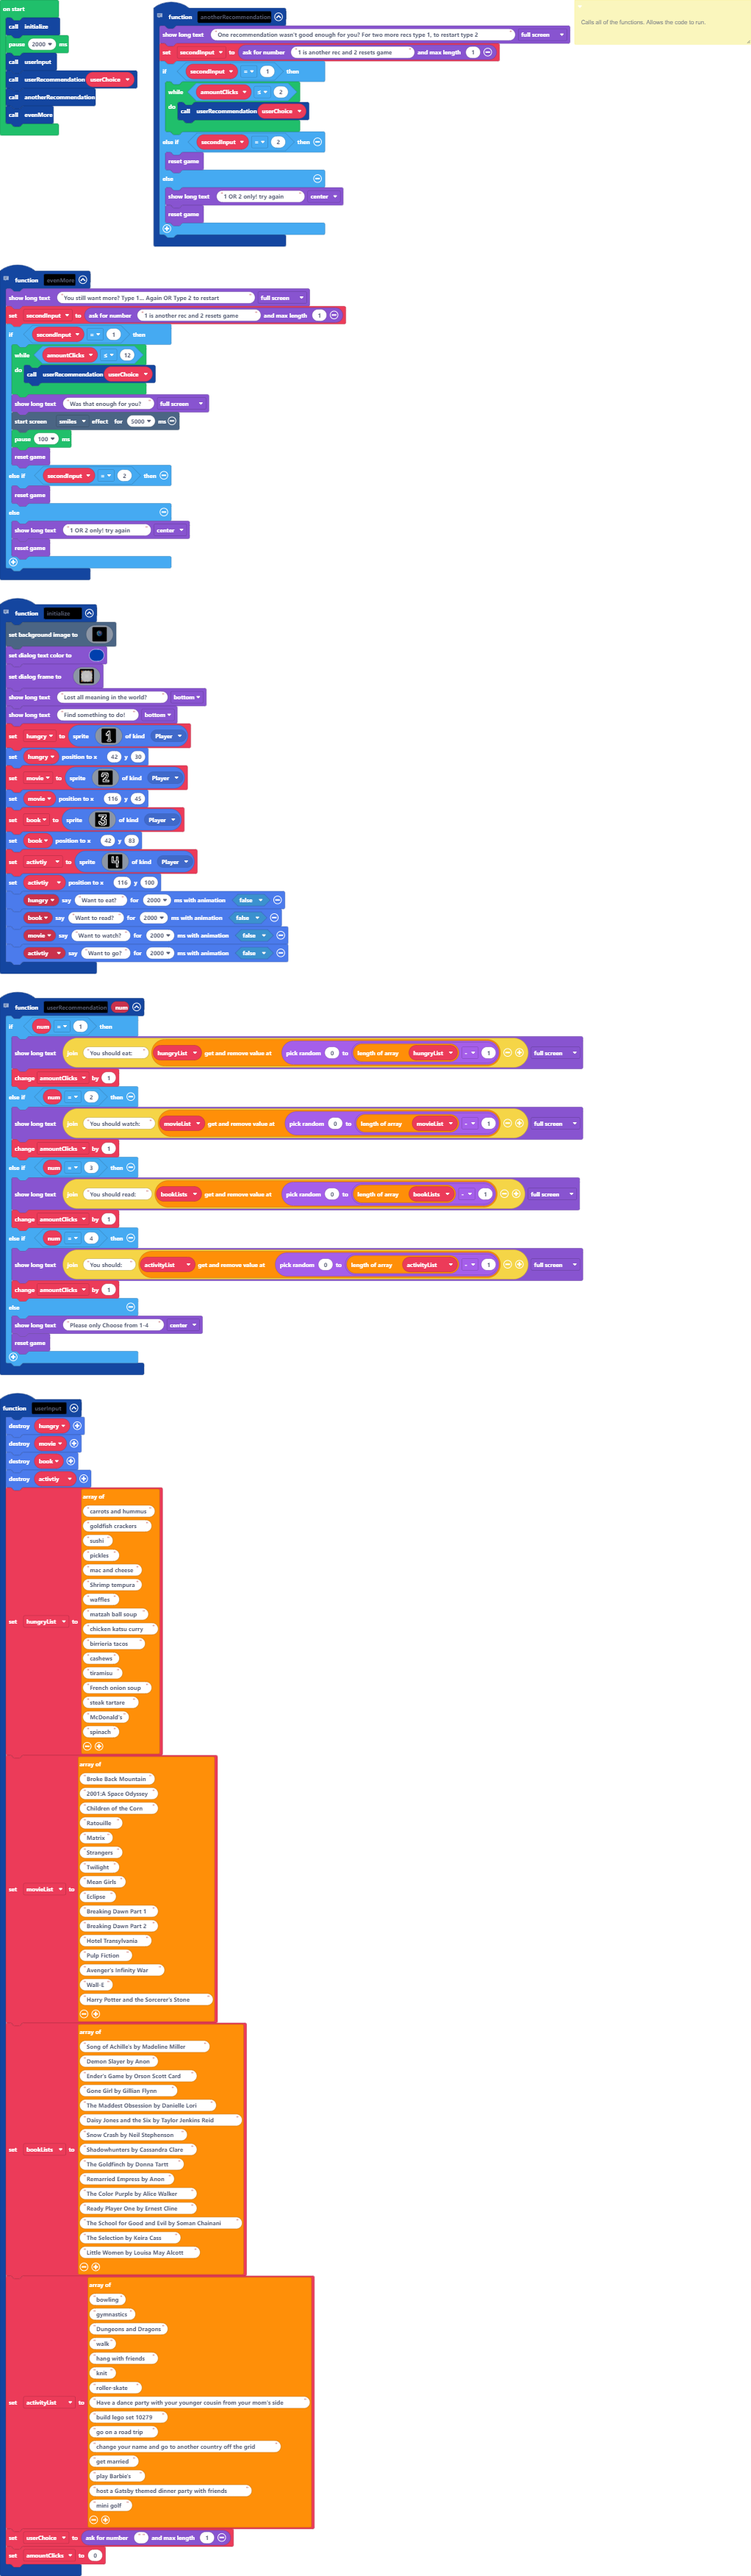
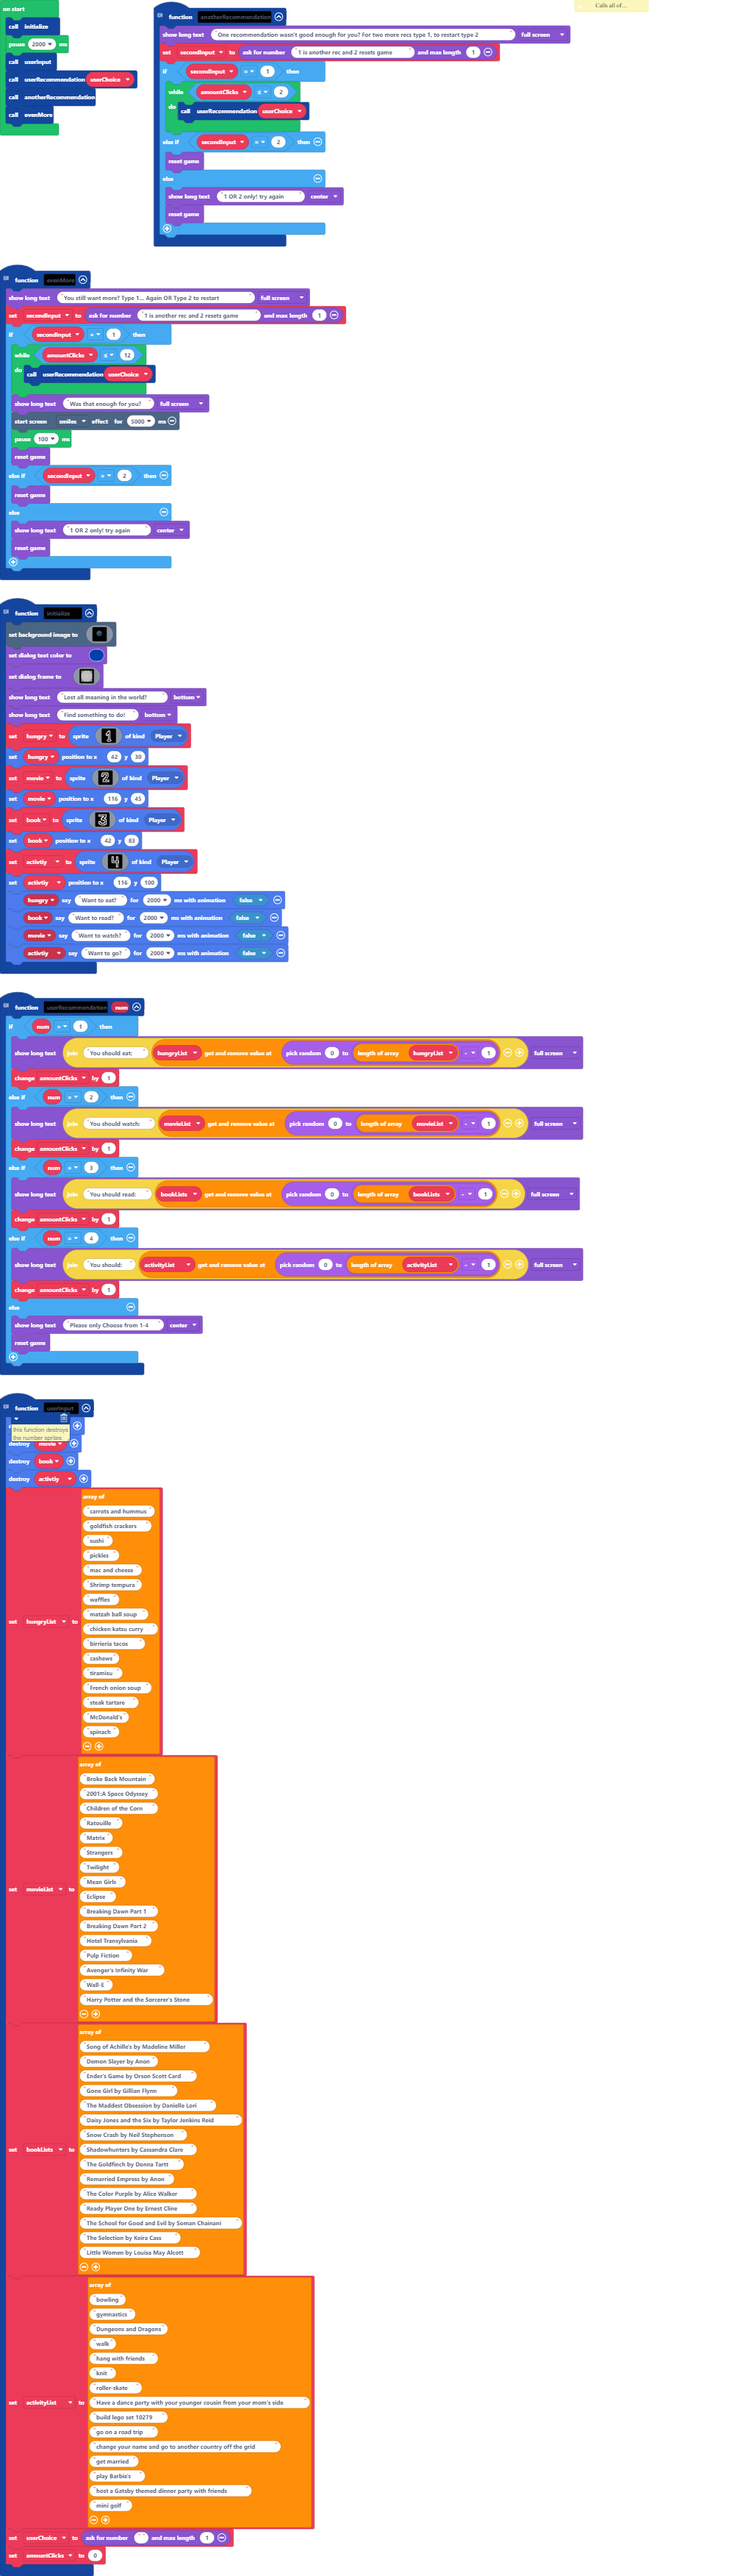
Update main.blocks, main.ts

Changed region(s): [[0.7583, 0.0, 1.0, 0.0311], [0.0, 0.529, 0.1213, 0.5601], [0.091, 0.9957, 0.1517, 1.0]]

diff --git a/main.ts b/main.ts
@@ -330,14 +330,12 @@ function userRecommendation (num: number) {
         game.reset()
     }
 }
-// functions asks for user input and contains the possible outputs depending on what the user inputs
+// this function destroys the number sprites on the screen. This function contains the different arrays of possible outputs the user could get depending on their input. 
 function userInput () {
-    // destroys the number sprites from the screen
     hungry.destroy()
     movie.destroy()
     book.destroy()
     activtiy.destroy()
-    // array of possible outputs when user inputs 1
     hungryList = [
     "carrots and hummus",
     "goldfish crackers",
@@ -356,7 +354,6 @@ function userInput () {
     "McDonald's",
     "spinach"
     ]
-    // array of possible outputs when user inputs 2
     movieList = [
     "Broke Back Mountain",
     "2001:A Space Odyssey",
@@ -375,7 +372,6 @@ function userInput () {
     "Wall-E",
     "Harry Potter and the Sorcerer's Stone"
     ]
-    // array of possible outputs when user inputs 3
     bookLists = [
     "Song of Achille's by Madeline Miller",
     "Demon Slayer by Anon",
@@ -393,7 +389,6 @@ function userInput () {
     "The Selection by Keira Cass",
     "Little Women by Louisa May Alcott"
     ]
-    // array of possible outputs when user inputs 4
     activityList = [
     "bowling",
     "gymnastics",
@@ -411,7 +406,6 @@ function userInput () {
     "host a Gatsby themed dinner party with friends",
     "mini golf"
     ]
-    // asks for user to input their choice
     userChoice = game.askForNumber("", 1)
     amountClicks = 0
 }
